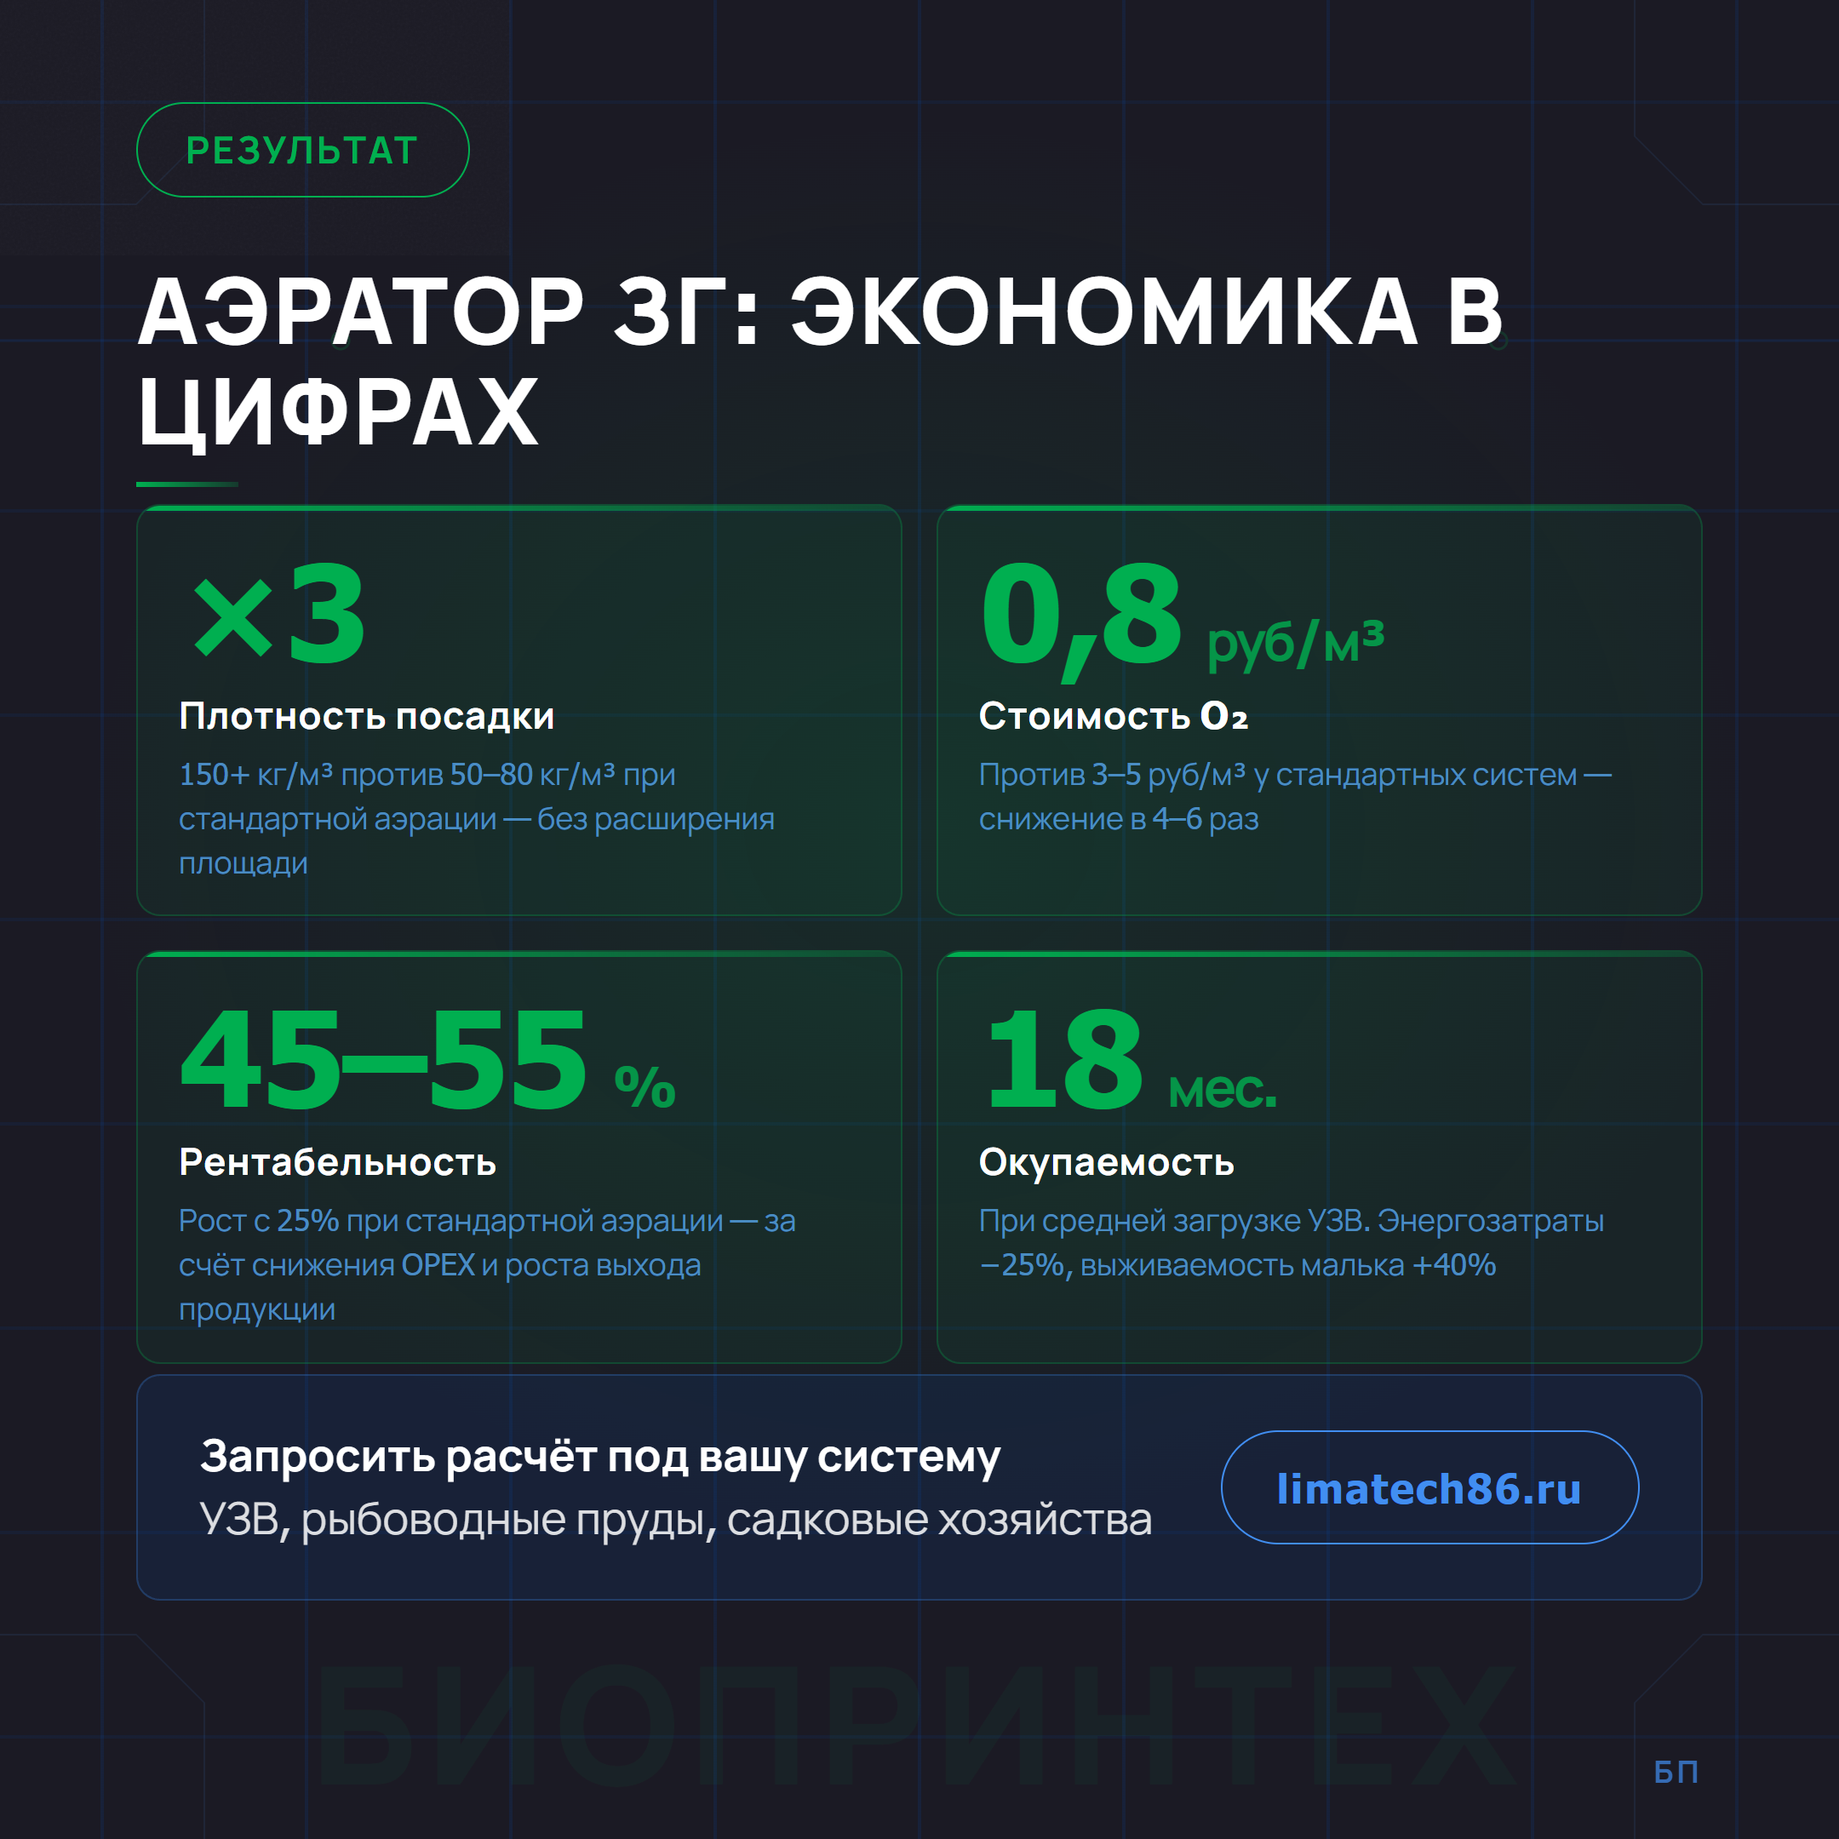
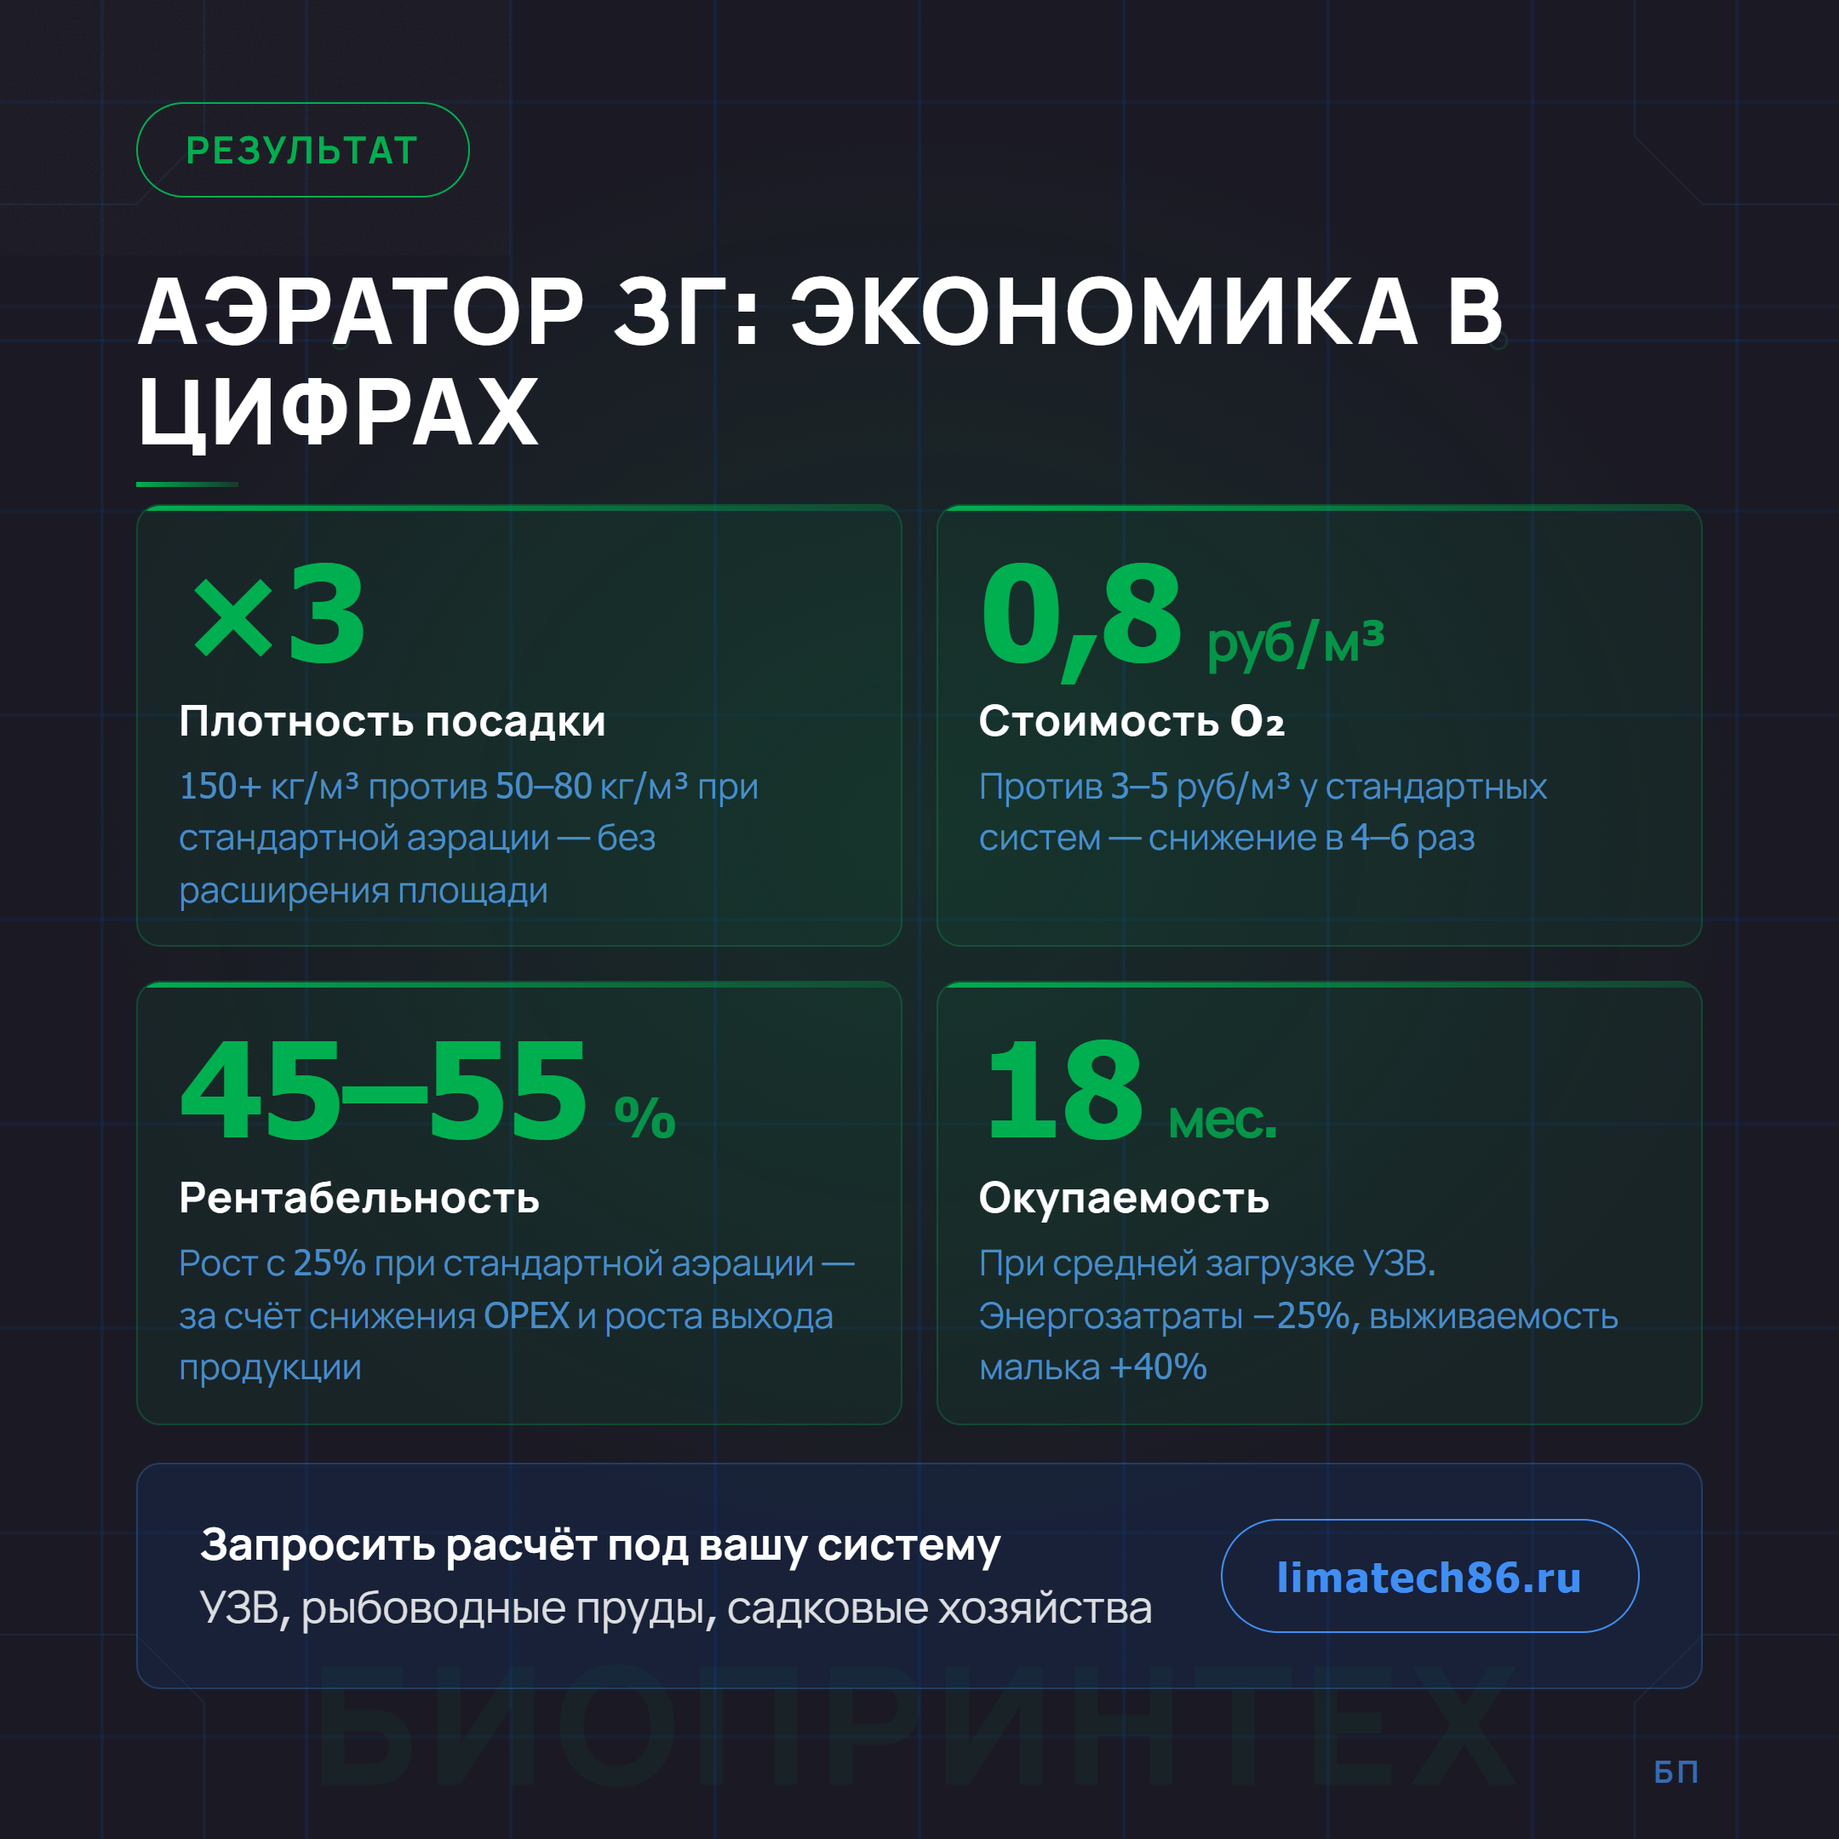
posts: корректировки слайдов #03 — Bioprintex_Limatex

Changed region(s): [[0.0931, 0.3722, 0.9306, 0.8995], [0.5273, 0.3722, 0.8685, 0.4653], [0.6824, 0.7755, 0.8685, 0.8685]]

diff --git a/projects/Bioprintex_Limatex/posts/drafts/05_05_2026-1/slide_03.html b/projects/Bioprintex_Limatex/posts/drafts/05_05_2026-1/slide_03.html
@@ -86,41 +86,41 @@
   <svg style="position:absolute;top:340px;left:80px;width:560px;height:610px" viewBox="0 0 560 610" xmlns="http://www.w3.org/2000/svg">
 
     <!-- Корпус аэратора -->
-    <rect x="160" y="20" width="240" height="380" rx="20" fill="rgba(4,79,186,0.12)" stroke="#418EF1" stroke-width="2"/>
+    <rect x="160" y="20" width="250" height="400" rx="20" fill="rgba(4,79,186,0.12)" stroke="#418EF1" stroke-width="2"/>
 
     <!-- Зоны давления внутри -->
-    <rect x="170" y="30" width="220" height="110" rx="8" fill="rgba(4,79,186,0.20)" stroke="rgba(65,142,241,0.40)" stroke-width="1.5"/>
-    <text x="280" y="75" text-anchor="middle" font-family="Tahoma,sans-serif" font-size="16" font-weight="700" fill="rgba(65,142,241,0.90)">ЗОНА 1</text>
-    <text x="280" y="97" text-anchor="middle" font-family="Tahoma,sans-serif" font-size="14" fill="rgba(65,142,241,0.65)">высокое давление</text>
-    <text x="280" y="115" text-anchor="middle" font-family="Tahoma,sans-serif" font-size="14" fill="rgba(65,142,241,0.65)">→ растворение O₂</text>
+    <rect x="168" y="28" width="234" height="122" rx="8" fill="rgba(4,79,186,0.20)" stroke="rgba(65,142,241,0.40)" stroke-width="1.5"/>
+    <text x="285" y="80" text-anchor="middle" font-family="Tahoma,sans-serif" font-size="19" font-weight="700" fill="rgba(65,142,241,0.90)">ЗОНА 1</text>
+    <text x="285" y="102" text-anchor="middle" font-family="Tahoma,sans-serif" font-size="15" fill="rgba(65,142,241,0.65)">высокое давление</text>
+    <text x="285" y="122" text-anchor="middle" font-family="Tahoma,sans-serif" font-size="15" fill="rgba(65,142,241,0.65)">→ растворение O₂</text>
 
-    <rect x="170" y="148" width="220" height="110" rx="8" fill="rgba(0,175,80,0.14)" stroke="rgba(0,224,101,0.40)" stroke-width="1.5"/>
-    <text x="280" y="193" text-anchor="middle" font-family="Tahoma,sans-serif" font-size="16" font-weight="700" fill="rgba(0,224,101,0.90)">ЗОНА 2</text>
-    <text x="280" y="215" text-anchor="middle" font-family="Tahoma,sans-serif" font-size="14" fill="rgba(0,224,101,0.70)">микропузыри Ø&lt;0,3 мм</text>
-    <text x="280" y="233" text-anchor="middle" font-family="Tahoma,sans-serif" font-size="14" fill="rgba(0,224,101,0.70)">площадь ×10</text>
+    <rect x="168" y="158" width="234" height="122" rx="8" fill="rgba(0,175,80,0.14)" stroke="rgba(0,224,101,0.40)" stroke-width="1.5"/>
+    <text x="285" y="200" text-anchor="middle" font-family="Tahoma,sans-serif" font-size="19" font-weight="700" fill="rgba(0,224,101,0.90)">ЗОНА 2</text>
+    <text x="285" y="220" text-anchor="middle" font-family="Tahoma,sans-serif" font-size="15" fill="rgba(0,224,101,0.70)">микропузыри Ø&lt;0,3 мм</text>
+    <text x="285" y="238" text-anchor="middle" font-family="Tahoma,sans-serif" font-size="15" fill="rgba(0,224,101,0.70)">площадь ×10</text>
 
-    <rect x="170" y="266" width="220" height="110" rx="8" fill="rgba(4,79,186,0.16)" stroke="rgba(65,142,241,0.35)" stroke-width="1.5"/>
-    <text x="280" y="311" text-anchor="middle" font-family="Tahoma,sans-serif" font-size="16" font-weight="700" fill="rgba(65,142,241,0.90)">ЗОНА 3</text>
-    <text x="280" y="333" text-anchor="middle" font-family="Tahoma,sans-serif" font-size="14" fill="rgba(65,142,241,0.65)">сепарация · выход</text>
-    <text x="280" y="351" text-anchor="middle" font-family="Tahoma,sans-serif" font-size="14" fill="rgba(65,142,241,0.65)">насыщенной воды</text>
+    <rect x="168" y="288" width="234" height="122" rx="8" fill="rgba(4,79,186,0.16)" stroke="rgba(65,142,241,0.35)" stroke-width="1.5"/>
+    <text x="285" y="330" text-anchor="middle" font-family="Tahoma,sans-serif" font-size="19" font-weight="700" fill="rgba(65,142,241,0.90)">ЗОНА 3</text>
+    <text x="285" y="352" text-anchor="middle" font-family="Tahoma,sans-serif" font-size="15" fill="rgba(65,142,241,0.65)">сепарация · выход</text>
+    <text x="285" y="370" text-anchor="middle" font-family="Tahoma,sans-serif" font-size="15" fill="rgba(65,142,241,0.65)">насыщенной воды</text>
 
     <!-- Вход воды (слева) -->
     <line x1="0" y1="85" x2="158" y2="85" stroke="#418EF1" stroke-width="2.5"/>
     <polygon points="158,85 145,79 145,91" fill="#418EF1"/>
-    <text x="0" y="72" font-family="Tahoma,sans-serif" font-size="15" font-weight="700" fill="rgba(65,142,241,0.80)">ВОДА</text>
-    <text x="0" y="100" font-family="Tahoma,sans-serif" font-size="14" fill="rgba(65,142,241,0.55)">вход</text>
+    <text x="0" y="72" font-family="Tahoma,sans-serif" font-size="20" font-weight="800" fill="rgba(65,142,241,0.80)">ВОДА</text>
+    <text x="0" y="100" font-family="Tahoma,sans-serif" font-size="15" fill="rgba(65,142,241,0.55)">вход</text>
 
     <!-- Вход газа (слева) -->
     <line x1="0" y1="200" x2="158" y2="200" stroke="#00E065" stroke-width="2.5" stroke-dasharray="8,4"/>
     <polygon points="158,200 145,194 145,206" fill="#00E065"/>
-    <text x="0" y="187" font-family="Tahoma,sans-serif" font-size="15" font-weight="700" fill="rgba(0,224,101,0.90)">O₂</text>
-    <text x="0" y="215" font-family="Tahoma,sans-serif" font-size="14" fill="rgba(0,224,101,0.60)">газ</text>
+    <text x="0" y="187" font-family="Tahoma,sans-serif" font-size="20" font-weight="800" fill="rgba(0,224,101,0.90)">O₂</text>
+    <text x="0" y="215" font-family="Tahoma,sans-serif" font-size="15" fill="rgba(0,224,101,0.60)">газ</text>
 
     <!-- Выход воды (справа) -->
-    <line x1="402" y1="320" x2="520" y2="320" stroke="#00E065" stroke-width="3"/>
+    <line x1="412" y1="320" x2="520" y2="320" stroke="#00E065" stroke-width="3"/>
     <polygon points="520,320 507,314 507,326" fill="#00E065"/>
-    <text x="422" y="305" font-family="Tahoma,sans-serif" font-size="15" font-weight="700" fill="rgba(0,224,101,0.90)">H₂O + O₂</text>
-    <text x="422" y="338" font-family="Tahoma,sans-serif" font-size="14" fill="rgba(0,224,101,0.65)">насыщ. вода</text>
+    <text x="422" y="305" font-family="Tahoma,sans-serif" font-size="19" font-weight="800" fill="rgba(0,224,101,0.90)">H₂O + O₂</text>
+    <text x="422" y="338" font-family="Tahoma,sans-serif" font-size="15" fill="rgba(0,224,101,0.65)">насыщ. вода</text>
 
     <!-- kLa стрелка вверх -->
     <line x1="490" y1="140" x2="490" y2="60" stroke="rgba(255,255,255,0.20)" stroke-width="1" stroke-dasharray="4,4"/>
@@ -129,22 +129,22 @@
     <text x="420" y="170" font-family="Tahoma,sans-serif" font-size="18" fill="rgba(0,224,101,0.70)">ч⁻¹</text>
 
     <!-- Микропузыри визуал -->
-    <circle cx="220" cy="210" r="5" fill="rgba(0,224,101,0.70)" stroke="#00E065" stroke-width="1"/>
-    <circle cx="245" cy="195" r="3.5" fill="rgba(0,224,101,0.65)" stroke="#00E065" stroke-width="1"/>
-    <circle cx="265" cy="215" r="4" fill="rgba(0,224,101,0.65)" stroke="#00E065" stroke-width="1"/>
-    <circle cx="290" cy="200" r="5" fill="rgba(0,224,101,0.70)" stroke="#00E065" stroke-width="1"/>
-    <circle cx="315" cy="208" r="3" fill="rgba(0,224,101,0.60)" stroke="#00E065" stroke-width="1"/>
-    <circle cx="335" cy="193" r="4.5" fill="rgba(0,224,101,0.65)" stroke="#00E065" stroke-width="1"/>
-    <circle cx="355" cy="215" r="3" fill="rgba(0,224,101,0.60)" stroke="#00E065" stroke-width="1"/>
+    <circle cx="200" cy="248" r="5" fill="rgba(0,224,101,0.70)" stroke="#00E065" stroke-width="1"/>
+    <circle cx="228" cy="258" r="3.5" fill="rgba(0,224,101,0.65)" stroke="#00E065" stroke-width="1"/>
+    <circle cx="250" cy="245" r="4" fill="rgba(0,224,101,0.65)" stroke="#00E065" stroke-width="1"/>
+    <circle cx="278" cy="255" r="5" fill="rgba(0,224,101,0.70)" stroke="#00E065" stroke-width="1"/>
+    <circle cx="305" cy="248" r="3" fill="rgba(0,224,101,0.60)" stroke="#00E065" stroke-width="1"/>
+    <circle cx="330" cy="258" r="4.5" fill="rgba(0,224,101,0.65)" stroke="#00E065" stroke-width="1"/>
+    <circle cx="360" cy="245" r="3" fill="rgba(0,224,101,0.60)" stroke="#00E065" stroke-width="1"/>
 
     <!-- Сравнение снизу -->
-    <text x="0" y="460" font-family="Tahoma,sans-serif" font-size="16" font-weight="700" fill="rgba(255,122,31,0.80)" letter-spacing="1">СТАНДАРТ</text>
-    <rect x="0" y="470" width="240" height="36" rx="6" fill="rgba(255,100,0,0.12)" stroke="rgba(255,100,0,0.30)" stroke-width="1.5"/>
-    <text x="12" y="494" font-family="Tahoma,sans-serif" font-size="20" font-weight="700" fill="#FF7A1F">kLa 2–5 ч⁻¹ · Ø 3–5 мм</text>
+    <text x="0" y="470" font-family="Tahoma,sans-serif" font-size="16" font-weight="700" fill="rgba(255,122,31,0.80)" letter-spacing="1">СТАНДАРТ</text>
+    <rect x="0" y="480" width="235" height="36" rx="6" fill="rgba(255,100,0,0.12)" stroke="rgba(255,100,0,0.30)" stroke-width="1.5"/>
+    <text x="12" y="503" font-family="Tahoma,sans-serif" font-size="15" font-weight="700" fill="#FF7A1F">kLa 2–5 ч⁻¹ · Ø 3–5 мм</text>
 
-    <text x="280" y="460" font-family="Tahoma,sans-serif" font-size="16" font-weight="700" fill="rgba(0,224,101,0.80)" letter-spacing="1">АЭРАТОР ЗГ</text>
-    <rect x="280" y="470" width="270" height="36" rx="6" fill="rgba(0,175,80,0.14)" stroke="rgba(0,224,101,0.35)" stroke-width="1.5"/>
-    <text x="292" y="494" font-family="Tahoma,sans-serif" font-size="20" font-weight="700" fill="#00E065">kLa 10–20 ч⁻¹ · Ø &lt;0,3 мм</text>
+    <text x="250" y="470" font-family="Tahoma,sans-serif" font-size="16" font-weight="700" fill="rgba(0,224,101,0.80)" letter-spacing="1">АЭРАТОР ЗГ</text>
+    <rect x="250" y="480" width="260" height="36" rx="6" fill="rgba(0,175,80,0.14)" stroke="rgba(0,224,101,0.35)" stroke-width="1.5"/>
+    <text x="260" y="503" font-family="Tahoma,sans-serif" font-size="15" font-weight="700" fill="#00E065">kLa 10–20 ч⁻¹ · Ø &lt;0,3 мм</text>
   </svg>
 
   <div class="params">

diff --git a/projects/Bioprintex_Limatex/posts/drafts/05_05_2026-1/slide_02.html b/projects/Bioprintex_Limatex/posts/drafts/05_05_2026-1/slide_02.html
@@ -37,9 +37,9 @@
 
   /* Большая цифра */
   .big-stat {
-    position: absolute; top: 320px; left: 80px; width: 440px;
+    position: absolute; top: 390px; left: 80px; width: 440px;
   }
-  .big-val { font-size: 120px; font-weight: 800; color: #FF7A1F; line-height: 1; letter-spacing: -0.03em; }
+  .big-val { font-size: 88px; font-weight: 800; color: #FF7A1F; line-height: 1; letter-spacing: -0.03em; }
   .big-unit { font-size: 38px; font-weight: 700; color: rgba(255,122,31,0.80); display: block; margin-top: 2px; }
   .big-label { margin-top: 18px; font-size: 28px; font-weight: 400; color: rgba(91,173,247,0.85); line-height: 1.4; max-width: 420px; }
 
@@ -67,7 +67,7 @@
 
   /* Нижняя полоса с выводом */
   .conclusion {
-    position: absolute; bottom: 130px; left: 80px; right: 80px;
+    position: absolute; bottom: 88px; left: 80px; right: 80px;
     padding: 24px 32px;
     background: rgba(197,90,17,0.10);
     border: 1px solid rgba(197,90,17,0.35);

diff --git a/projects/Bioprintex_Limatex/posts/drafts/05_05_2026-1/slide_04.html b/projects/Bioprintex_Limatex/posts/drafts/05_05_2026-1/slide_04.html
@@ -51,11 +51,11 @@
   }
   .m-val { font-size: 78px; font-weight: 800; color: #00AF50; line-height: 1; letter-spacing: -0.02em; margin-bottom: 8px; }
   .m-unit { font-size: 32px; font-weight: 700; color: rgba(0,175,80,0.80); }
-  .m-label { font-size: 22px; font-weight: 700; color: #FFFFFF; letter-spacing: 0.02em; margin-bottom: 6px; }
-  .m-desc { font-size: 18px; font-weight: 400; color: rgba(91,173,247,0.75); line-height: 1.45; }
+  .m-label { font-size: 25px; font-weight: 700; color: #FFFFFF; letter-spacing: 0.02em; margin-bottom: 6px; }
+  .m-desc { font-size: 21px; font-weight: 400; color: rgba(91,173,247,0.75); line-height: 1.45; }
 
   .cta-block {
-    position: absolute; bottom: 140px; left: 80px; right: 80px;
+    position: absolute; bottom: 88px; left: 80px; right: 80px;
     display: flex; align-items: center; justify-content: space-between;
     padding: 28px 36px;
     background: rgba(4,79,186,0.12); border: 1px solid rgba(65,142,241,0.25);

diff --git a/projects/Bioprintex_Limatex/posts/drafts/05_05_2026-1/slide_01.html b/projects/Bioprintex_Limatex/posts/drafts/05_05_2026-1/slide_01.html
@@ -56,7 +56,7 @@
     transform: translateY(-62%); text-align: center;
   }
   .label { font-size: 26px; font-weight: 700; color: #5BADF7; letter-spacing: 0.14em; text-transform: uppercase; margin-bottom: 24px; }
-  .headline { font-size: 110px; font-weight: 800; color: #FFFFFF; text-transform: uppercase; line-height: 1.0; letter-spacing: 0.02em; margin-bottom: 16px; }
+  .headline { font-size: 110px; font-weight: 800; color: #00AF50; text-transform: uppercase; line-height: 1.0; letter-spacing: 0.02em; margin-bottom: 16px; }
   .headline span { color: #00AF50; }
   .divider-line { width: 120px; height: 3px; background: linear-gradient(90deg, #044FBA, #00AF50); margin: 0 auto 32px auto; }
   .subtitle { font-size: 34px; font-weight: 400; color: #5BADF7; letter-spacing: 0.02em; line-height: 1.4; max-width: 860px; margin: 0 auto; }
